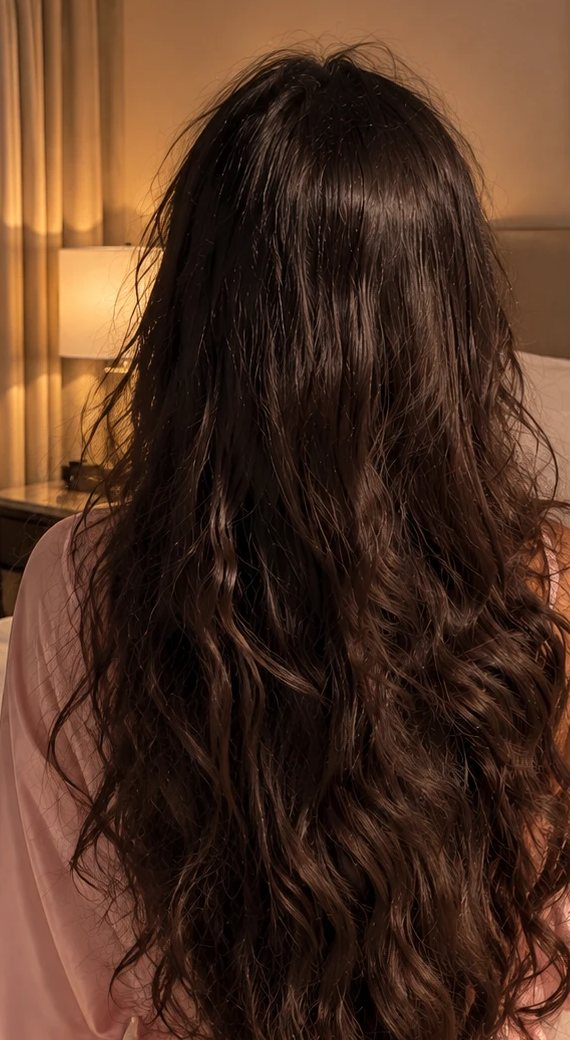
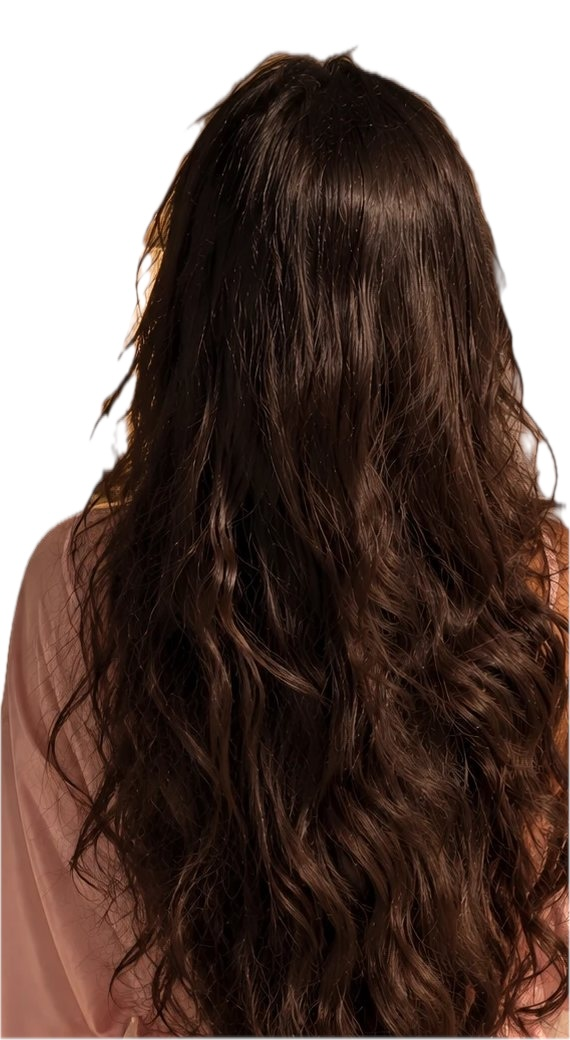
Comb photos on a clean white background

Changed region(s): [[0.0, 0.0, 1.0, 1.0]]

diff --git a/app.js b/app.js
@@ -2717,7 +2717,7 @@ const AFTER = {
         const size = () => { const dpr = devicePixelRatio || 1; W = hair.clientWidth; H = hair.clientHeight; cv.width = W * dpr; cv.height = H * dpr; g.setTransform(dpr, 0, 0, dpr, 0, 0); draw(); };
         // my real hair: the tangled photo on top, the smooth photo underneath. every grid cell's tangle level is how much
         // of the tangled photo still shows there, blurred so the edges are soft. the braid photo fades in at the end.
-        const PIC = ['before', 'after', 'braid'].map(k => { const im = new Image(); im.onload = () => (W ? draw() : size()); im.src = `assets/img/me-hair-${k}.jpg`; return im; });
+        const PIC = ['before', 'after', 'braid'].map(k => { const im = new Image(); im.onload = () => (W ? draw() : size()); im.src = `assets/img/me-hair-${k}.jpg?v=2`; return im; });
         // redraw whenever the box gets (or changes) its size, so the photos always show up
         if (window.ResizeObserver) new ResizeObserver(() => { if (hair.clientWidth && hair.clientWidth !== W) size(); }).observe(hair);
         const mk = document.createElement('canvas'), mg = mk.getContext('2d'), off = document.createElement('canvas'), og = off.getContext('2d');

diff --git a/index.html b/index.html
@@ -8,7 +8,7 @@
 <link rel="preconnect" href="https://fonts.googleapis.com">
 <link rel="preconnect" href="https://fonts.gstatic.com" crossorigin>
 <link href="https://fonts.googleapis.com/css2?family=Bodoni+Moda:ital,opsz,wght@0,6..96,400;0,6..96,600;1,6..96,400;1,6..96,600&family=Caveat:wght@500;700&family=Kalam:wght@400;700&family=Instrument+Sans:wght@400;500;600&family=JetBrains+Mono:wght@400;500&display=swap" rel="stylesheet">
-<link rel="stylesheet" href="style.css?v=1790932304">
+<link rel="stylesheet" href="style.css?v=1790932452">
 </head>
 <body>
 
@@ -58,7 +58,7 @@
 <div class="tint" id="tint" aria-hidden="true"></div>
 <div class="toast hand" id="toast" role="status" aria-live="polite"></div>
 
-<script src="items.js?v=1790932304"></script>
-<script src="app.js?v=1790932304"></script>
+<script src="items.js?v=1790932452"></script>
+<script src="app.js?v=1790932452"></script>
 </body>
 </html>
